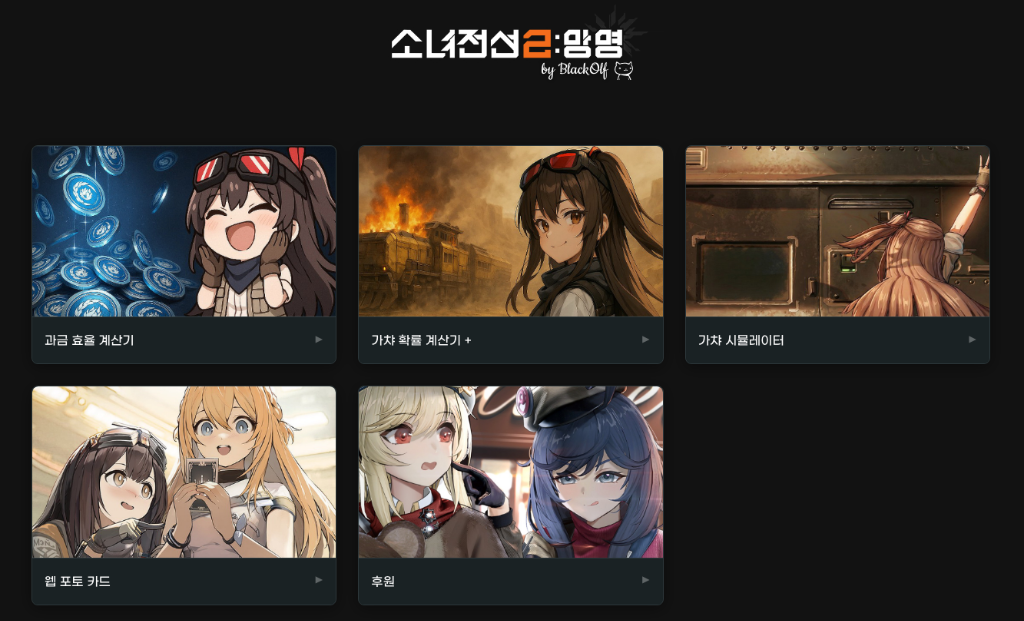
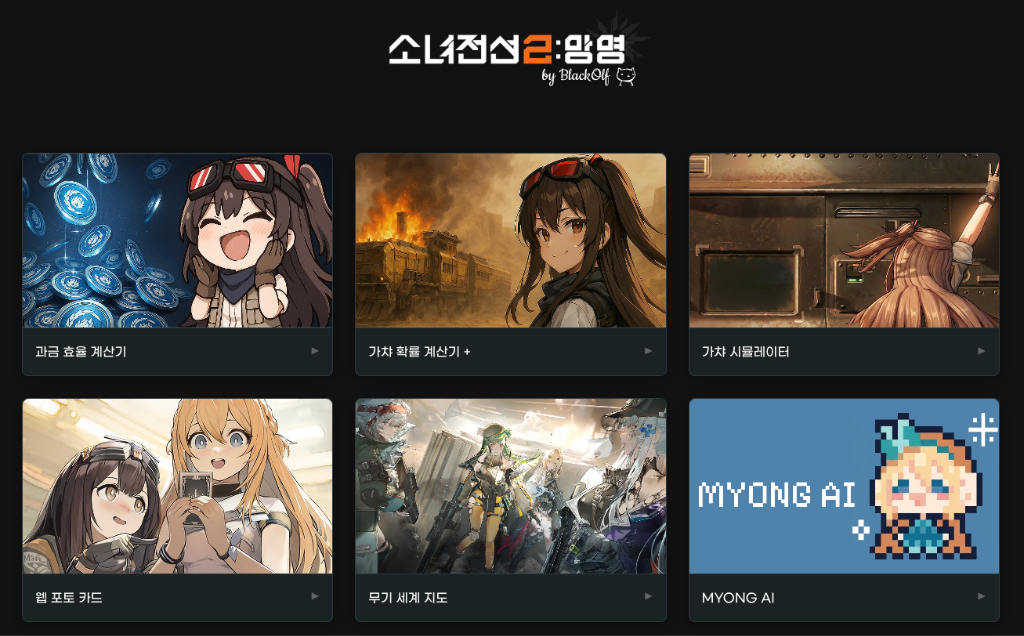
사이드 프로젝트 부분 수정

diff --git a/src/features/projects/Gf2ArchitectureDiagram.tsx b/src/features/projects/Gf2ArchitectureDiagram.tsx
@@ -4,76 +4,52 @@ import { RefreshCw } from 'lucide-react';
 
 const mermaidDefinition = `
 graph TB
-    subgraph USERS ["👤 ACCESS LAYER"]
-        U_USER["🌐 일반 사용자"]
-        U_ADMIN["🔐 관리자 (ISR Trigger)"]
+    GITHUB["🐙 GitHub (소스코드)"]
+
+    subgraph FE ["☁ FRONTEND (Vercel)"]
+        FE_APP["⚡ Next.js 15 (App Router)"]
     end
 
-    subgraph DEVOPS ["🚀 DEVOPS & CI/CD PIPELINE"]
-        GITHUB["🐙 GitHub (소스코드)"]
-        GHACTIONS["⚙ GitHub Actions (CI/CD)"]
-        DOPPLER["🔒 Doppler (환경변수)"]
-        DOCKER["🐳 Docker Hub (이미지 저장소)"]
+    subgraph CI ["🚀 BACKEND CI/CD"]
+        direction LR
+        GHACTIONS["⚙ GitHub Actions"] --> DOCKER["🐳 Docker Hub"]
     end
 
-    subgraph FE ["☁ FRONTEND (Vercel) - Next.js 15"]
-        FE_API["⚡ API Route (재검증 핸들러)"]
-        FE_ISR["📄 정적 페이지 (ISR)"]
-        FE_DYN["🎮 동적 기능 (게임 / 좋아요)"]
+    subgraph BE ["🏠 BACKEND (Synology NAS) - NestJS 11"]
+        BE_API["🤖 API 서버 (REST & RAG 서비스)"]
+        BE_ADMIN["📑 Swagger UI (API 문서)"]
     end
 
-    subgraph BE ["🏠 BACKEND (Synology NAS Docker) - NestJS 11"]
-        BE_ADMIN["🔐 관리자 모듈 (갱신 트리거)"]
-        BE_GATEWAY["🚪 API 게이트웨이 & DTO"]
-        BE_BIZ["🧠 비즈니스 로직 (게임 / 시트 / 좋아요)"]
-        BE_SWAGGER["📑 Swagger UI (Basic Auth)"]
+    subgraph DATA_AI ["🌐 DATA & AI PIPELINE"]
+        GEMINI["✨ Google Gemini API"]
+        DB_MONGO["🍃 MongoDB Atlas"]
+        DB_GSHEET["🟢 Google Sheets (관리 DB)"]
     end
 
-    subgraph DB ["🌐 EXTERNAL DATA SERVICES"]
-        DB_GSHEET["🟢 Google Sheets (게임 DB)"]
-        DB_MONGO["🍃 MongoDB Atlas (클라우드 DB)"]
-    end
+    %% Deploy Flows
+    GITHUB == "Vercel 자동 빌드/배포" ==> FE
+    GITHUB -. "백엔드 푸시" .-> GHACTIONS
+    DOCKER == "NAS에서 이미지 Pull 및 실행" ==> BE
 
-    %% 연결 관계 (Access)
-    U_USER --> FE_DYN
-    U_USER --> FE_ISR
-    U_ADMIN --> BE_ADMIN
-    U_ADMIN -.-> BE_SWAGGER
+    %% FE to BE
+    FE_APP <--> BE_API
 
-    %% GitHub / Vercel / GitHub Actions / Docker Hub 파이프라인
-    GITHUB --> FE_DYN
-    GITHUB --> GHACTIONS
-    GHACTIONS ==> DOCKER
+    %% BE internal & external
+    BE_API <--> DB_MONGO
+    BE_API <--> GEMINI
+    BE_API <--> DB_GSHEET
 
-    DOPPLER -.-> FE_DYN
-    DOPPLER -.-> BE_GATEWAY
-    DOCKER ==> BE_GATEWAY
-
-    %% On-Demand Revalidation
-    BE_ADMIN --> FE_ISR
-    BE_ADMIN --> FE_API
-
-    %% Frontend & Backend API Flow
-    FE_DYN --> BE_GATEWAY
-    BE_GATEWAY --> BE_BIZ
-
-    %% Backend & Database Connections
-    BE_BIZ -.-> DB_GSHEET
-    BE_BIZ -.-> DB_MONGO
-
-    BE_GATEWAY -.-> BE_SWAGGER
-
-    classDef accessStyle fill:#1e1e2e,stroke:#89b4fa,stroke-width:2px,color:#cdd6f4;
     classDef devopsStyle fill:#1e1e2e,stroke:#fab387,stroke-width:2px,color:#cdd6f4;
     classDef feStyle fill:#1e1e2e,stroke:#a6e3a1,stroke-width:2px,color:#cdd6f4;
     classDef beStyle fill:#1e1e2e,stroke:#f38ba8,stroke-width:2px,color:#cdd6f4;
-    classDef dbStyle fill:#1e1e2e,stroke:#f9e2af,stroke-width:2px,color:#cdd6f4;
+    classDef dataStyle fill:#1e1e2e,stroke:#f9e2af,stroke-width:2px,color:#cdd6f4;
+    classDef gitStyle fill:#1e1e2e,stroke:#cba6f7,stroke-width:2px,color:#cdd6f4;
 
-    class U_USER,U_ADMIN accessStyle;
-    class GITHUB,GHACTIONS,DOPPLER,DOCKER devopsStyle;
-    class FE_API,FE_ISR,FE_DYN feStyle;
-    class BE_ADMIN,BE_GATEWAY,BE_BIZ,BE_SWAGGER beStyle;
-    class DB_GSHEET,DB_MONGO dbStyle;
+    class GITHUB gitStyle;
+    class GHACTIONS,DOCKER devopsStyle;
+    class FE_APP feStyle;
+    class BE_API,BE_ADMIN beStyle;
+    class DB_MONGO,DB_GSHEET,GEMINI dataStyle;
 `;
 
 /**

diff --git a/src/data/portfolioData.ts b/src/data/portfolioData.ts
@@ -35,6 +35,8 @@ import gf213 from '@/assets/images/02_gf2/gf2_13.png';
 import gf214 from '@/assets/images/02_gf2/gf2_14.png';
 import gf215 from '@/assets/images/02_gf2/gf2_15.jpg';
 import gf216 from '@/assets/images/02_gf2/gf2_16.gif';
+import gf217 from '@/assets/images/02_gf2/gf2_17.png';
+import gf218 from '@/assets/images/02_gf2/gf2_18.png';
 
 // Side Projects Images
 import steam01 from '@/assets/images/03_grid/steam_01.gif';
@@ -66,7 +68,7 @@ export const portfolioData: PortfolioData = {
       'IoT 솔루션 기업에서 B2B SaaS 플랫폼의 프론트엔드를 단독 구축하고 6년간 운영했습니다. 레거시 시스템의 현대화부터 크로스플랫폼 앱 개발까지, 비즈니스가 필요로 하는 기술적 판단을 내리고 실행해 왔습니다.',
     contact: {
       email: 'pmw0310@gmail.com',
-      github: 'https://github.com/blackolf',
+      github: 'https://github.com/pmw0310',
       blog: 'https://mammoth-llama-22f.notion.site/26ec51a3be4a812cb04dd52358c83113',
     },
     stats: [
@@ -506,9 +508,9 @@ export const portfolioData: PortfolioData = {
         'Next.js 15',
         'NestJS 11',
         'MongoDB',
+        'Gemini API',
         'Zustand 5',
         'Vercel',
-        'ECharts',
         'pnpm Monorepo',
       ],
       summary:
@@ -524,9 +526,9 @@ export const portfolioData: PortfolioData = {
             'Sheets API로 데이터를 가져와 페이지를 미리 생성, 변경 시 필요한 페이지만 재빌드하는 유연한 구조.',
         },
         {
-          title: '가챠 확률 시뮬레이터 & 패키지 가치 분석',
+          title: 'RAG 기반 지능형 위키 AI',
           description:
-            '천장 시스템 확률 계산 연출과 인게임 유료 패키지 자동 가치 산출로 합리적 유저 판단 도구 제공.',
+            '게임 내 방대한 데이터를 벡터화하여 MongoDB에 저장하고, Gemini LLM을 통해 자연어로 문답이 가능한 AI 위키 서비스 개발.',
         },
         {
           title: '풀스택 + API 문서화',
@@ -538,7 +540,8 @@ export const portfolioData: PortfolioData = {
         {
           url: gf211,
           title: '메인 페이지',
-          caption: '주요 서비스 및 유틸리티 기능 통합 메인 화면',
+          caption:
+            'MYONG AI 챗봇, 계산기, 확률 시뮬레이터 등 6개 서브 서비스 통합 메인 화면',
         },
         {
           url: gf212,
@@ -565,6 +568,16 @@ export const portfolioData: PortfolioData = {
           url: gf216,
           title: '웹 포토 카드 플립 모션 데모',
           caption: 'CSS 3D Transform & 인터랙션 기반 실시간 포토 카드 플립 모션',
+        },
+        {
+          url: gf217,
+          title: 'MYONG AI 서비스',
+          caption: '소녀전선2 전술 위키 RAG 기반 자연어 지능형 Q&A 검색 서비스',
+        },
+        {
+          url: gf218,
+          title: '무기 세계 지도',
+          caption: '총기/무기 타입별 국가 분포 시각화 및 필터링 지도 UI',
         },
       ],
     },

diff --git a/src/components/TechIcon.tsx b/src/components/TechIcon.tsx
@@ -42,6 +42,7 @@ import {
   SiPnpm,
   SiSwagger,
   SiFramer,
+  SiGooglegemini,
 } from 'react-icons/si';
 import {
   TbCode,
@@ -130,6 +131,7 @@ const techIconMap: Record<string, { icon: IconType; color?: string }> = {
   ATmega: { icon: TbCpu, color: '#00539B' },
   STM32: { icon: SiStmicroelectronics, color: '#03234C' },
   Arduino: { icon: SiArduino, color: '#00979D' },
+  'Gemini API': { icon: SiGooglegemini, color: '#8E24AA' },
 };
 
 /**
